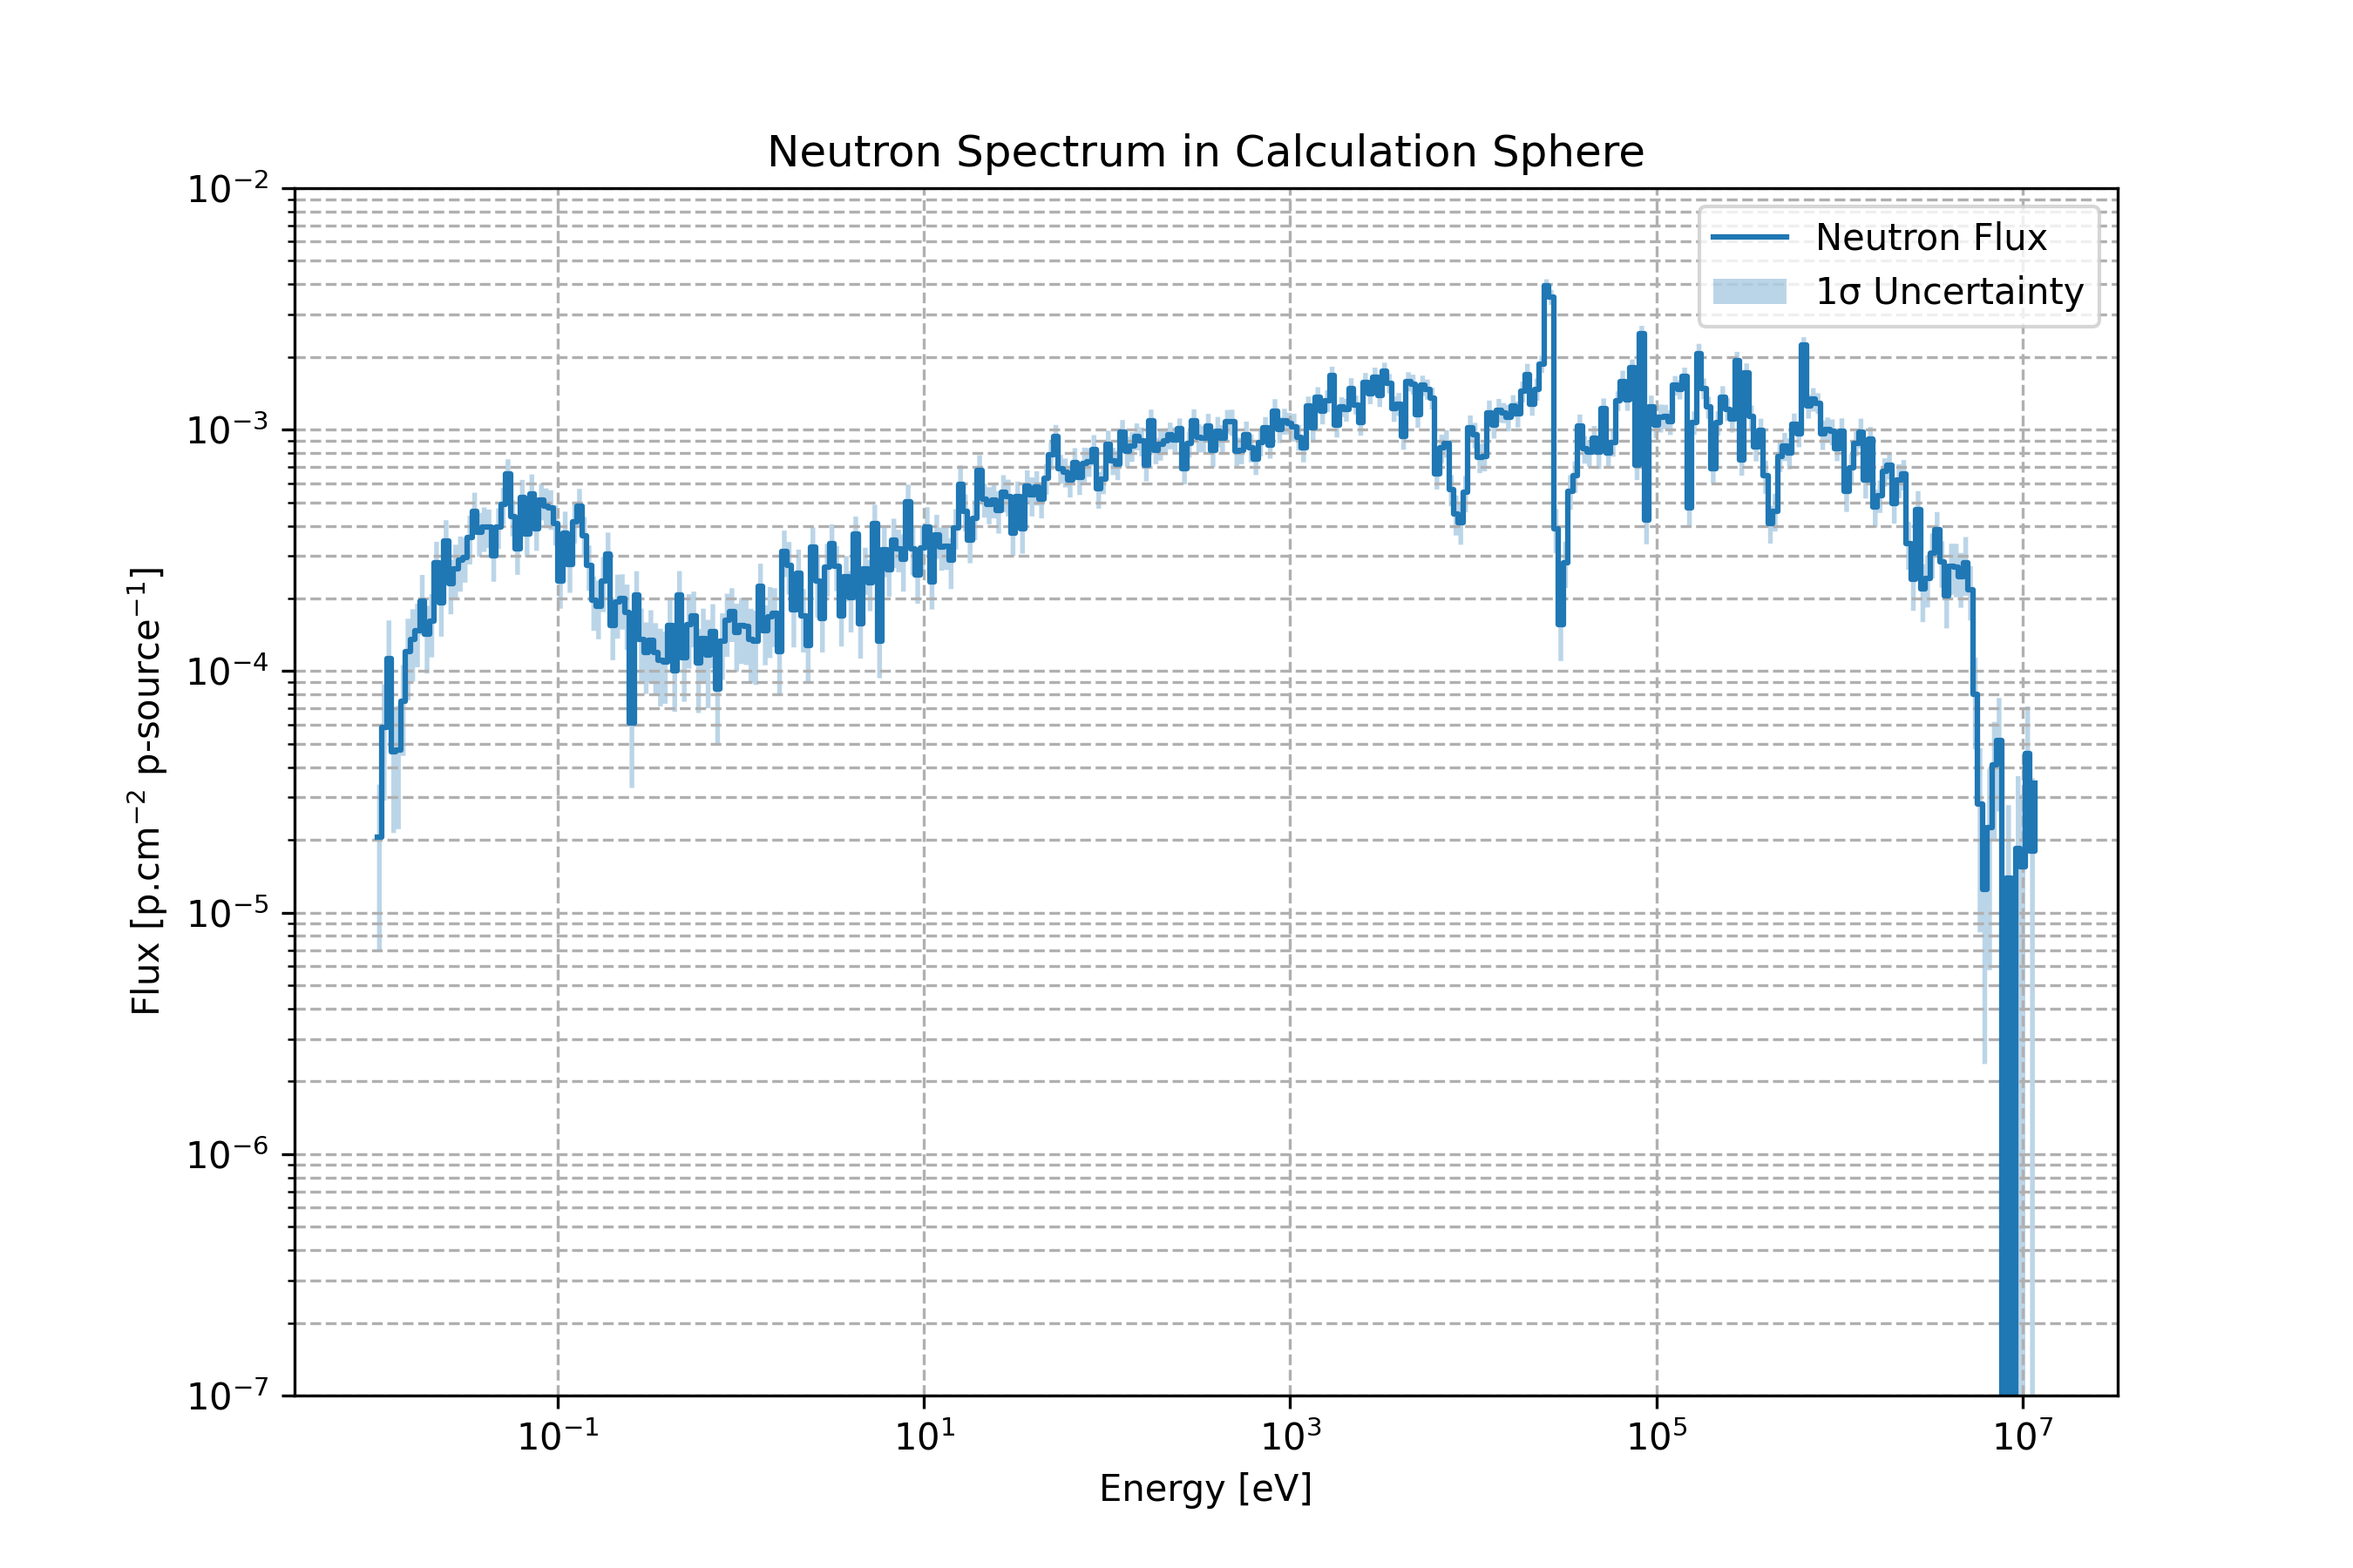
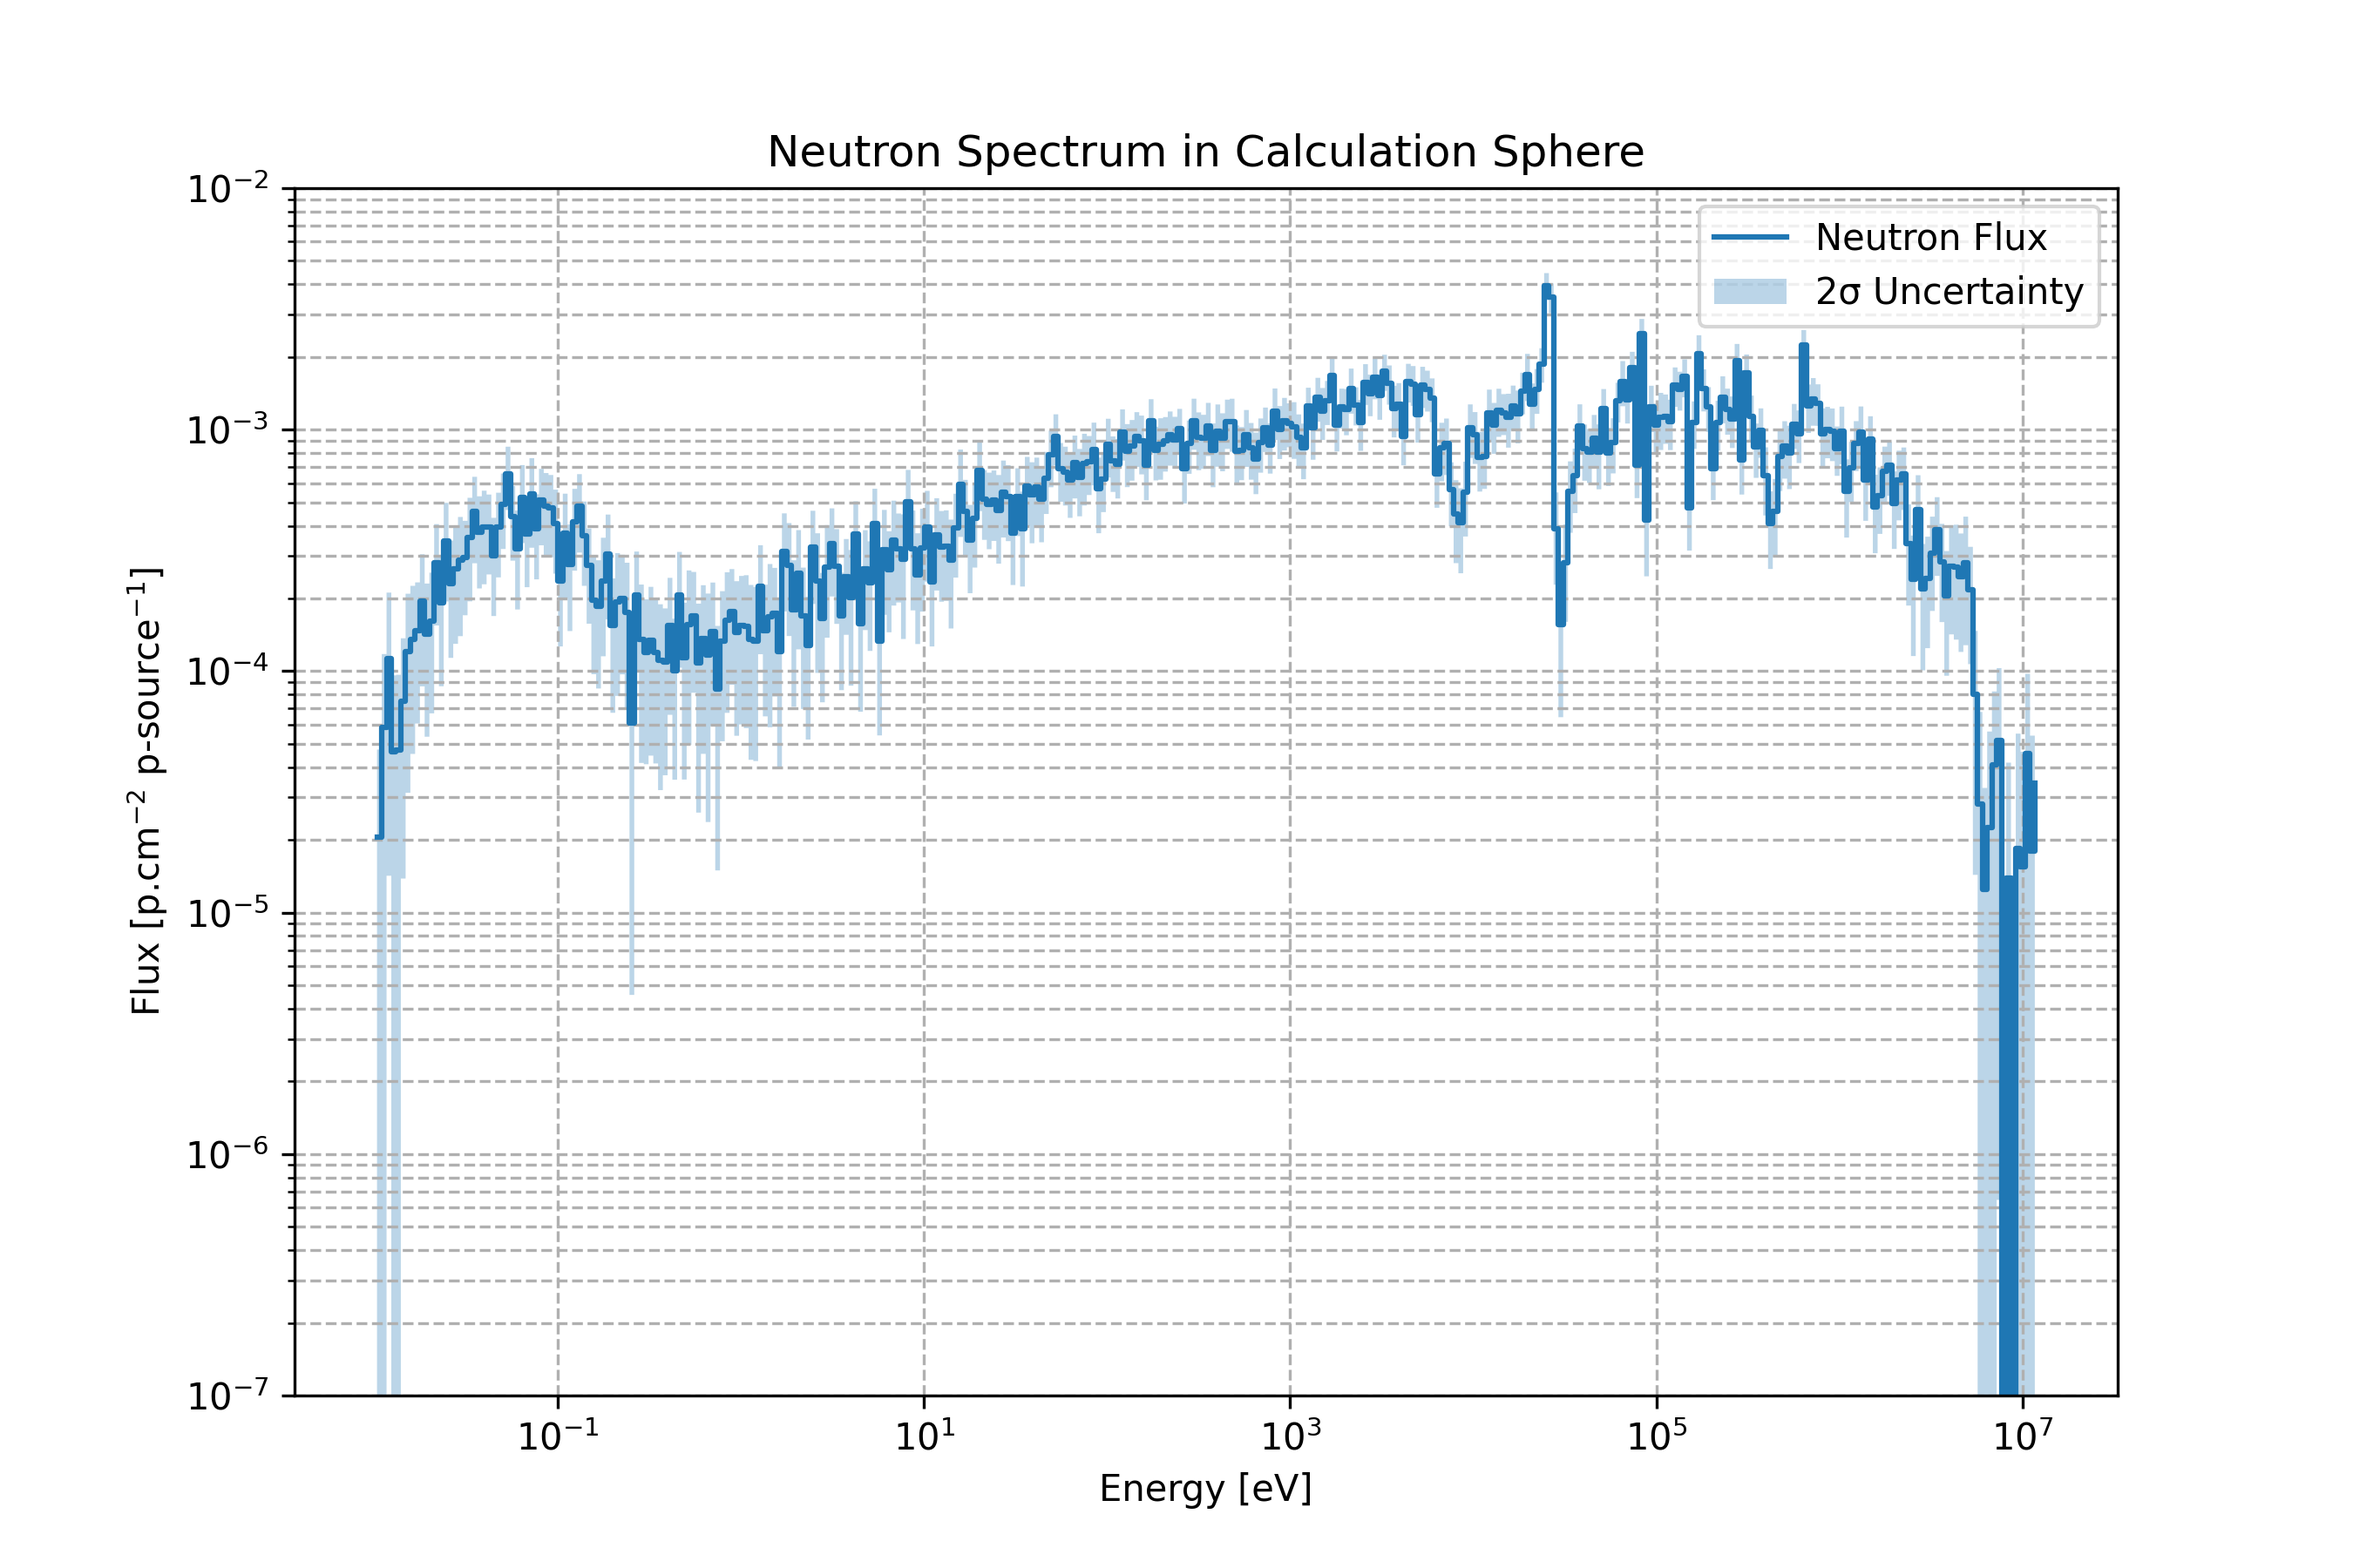
fix:remove_fignum

diff --git a/src/utils/post_preocessing/post_processing.py b/src/utils/post_preocessing/post_processing.py
@@ -862,7 +862,6 @@ def plot_flux_spectrum(
     statepoint: openmc.StatePoint,
     tally_name: str,
     particle_name: str,
-    figure_num: int,
     x_scale: str = 'log',
     y_scale: str = 'log',
     sigma: int = 1,
@@ -902,7 +901,7 @@ def plot_flux_spectrum(
         raise ValueError("Unsupported energy unit. Please use 'eV' or 'MeV'.")
 
     # Create the plot
-    plt.figure(figsize=figsize, num=figure_num)
+    plt.figure(figsize=figsize)
     plt.step(middle_energy_bins, flux_values, where='post', label=f'{particle_name} Flux')
     plt.fill_between(middle_energy_bins, flux_values - sigma * error, flux_values + sigma * error, 
                      step='post', alpha=0.3, label=f'{sigma}σ Uncertainty')

diff --git a/src/studies/reactor_study/class_model/secondary_source/spetrum_vessel/post.py b/src/studies/reactor_study/class_model/secondary_source/spetrum_vessel/post.py
@@ -27,7 +27,6 @@ plot_flux_spectrum(
     statepoint=statepoint,
     tally_name="tally_flux_neutrons",
     particle_name="Neutron",
-    figure_num=1,
     x_scale='log',
     y_scale='log',
     ylim=(1e-7, 1e-2),
@@ -42,7 +41,6 @@ plot_flux_spectrum(
     statepoint=statepoint,
     tally_name="tally_flux_photons",
     particle_name="Photon",
-    figure_num=2,
     x_scale='linear',
     y_scale='log',
     energy_unit='MeV',
